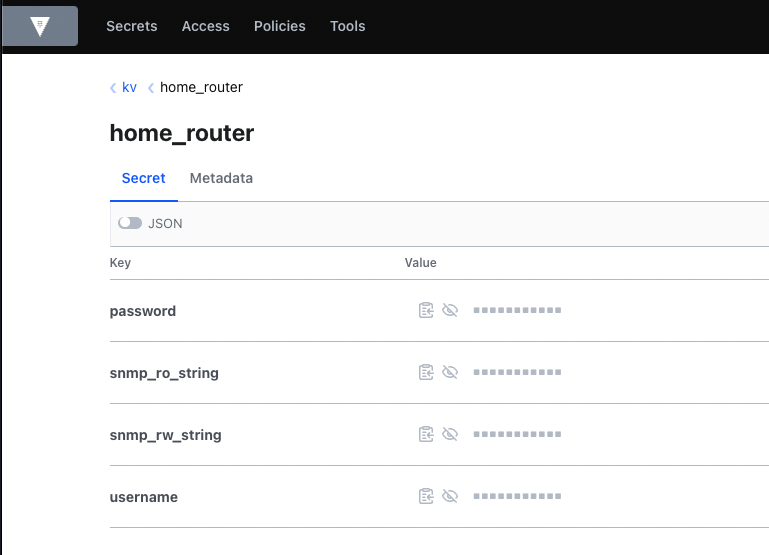
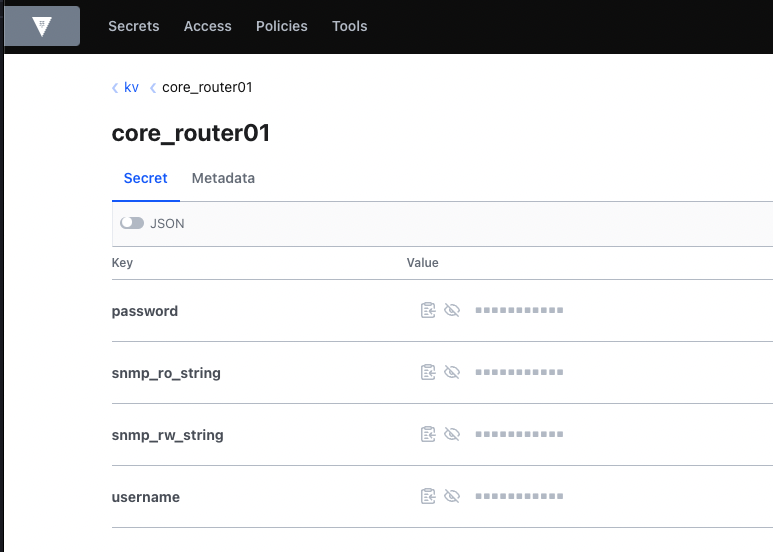
Adding in second router

diff --git a/readme.MD b/readme.MD
@@ -13,7 +13,7 @@ export VAULT_SERVER=''
 export VAULT_TOKEN=''
 ```
 
-Vault is configured with a simple KV store with the following information:
+Vault is configured with a simple KV store. The information is stored in Vault under a secret matching the `inventory_hostname`:
 
 ![images/vault_kv.png](images/vault_kv.png)
 
